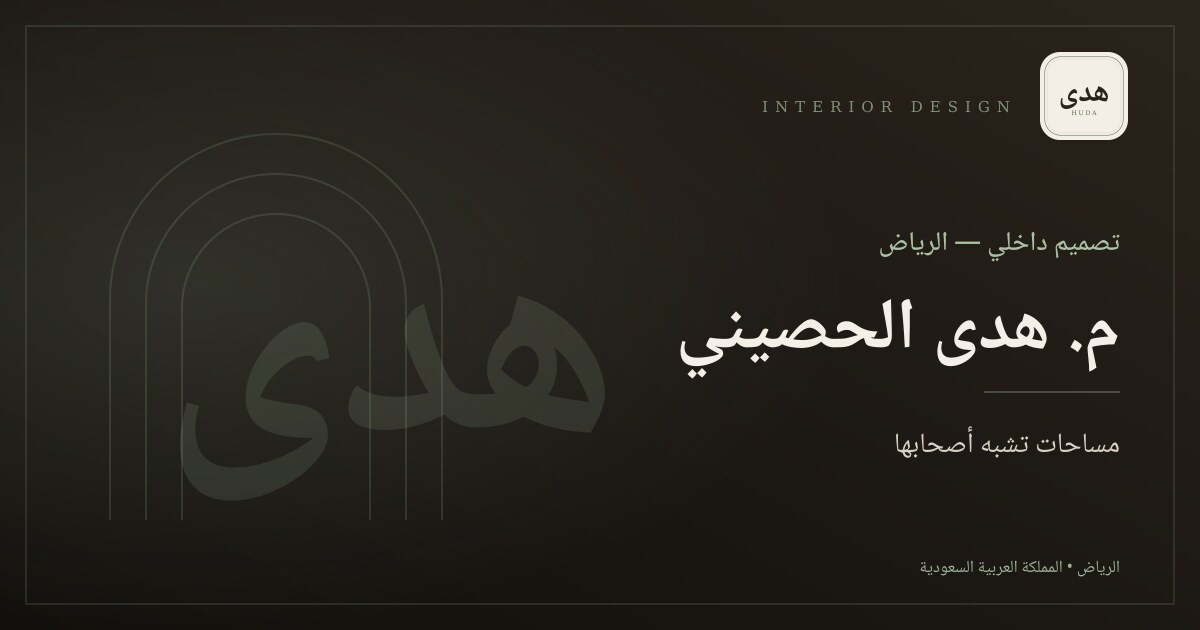
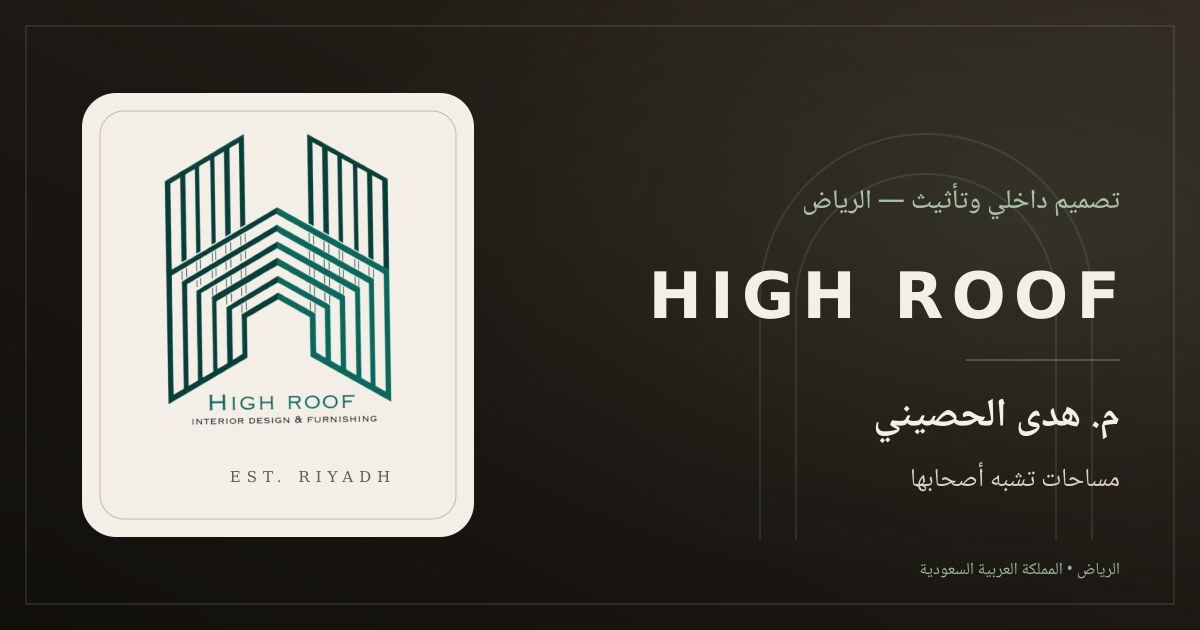
first commit

diff --git a/hub/sites/huda/site.ts b/hub/sites/huda/site.ts
@@ -5,13 +5,13 @@ import type { Contact, Project, ServiceItem, SiteData } from "@/lib/site";
 // المحتوى والوسائط من أصول فولدر "huda" وحساب @hudaaa-1.
 
 const brand = {
-  name: "هدى الحصيني",
+  name: "High Roof — هدى الحصيني",
   logo: "/sites/huda/brand/logo.webp",
   logoWidth: 60,
   logoHeight: 60,
-  title: "م. هدى الحصيني | تصميم داخلي — الرياض",
+  title: "High Roof | م. هدى الحصيني — تصميم داخلي وتأثيث بالرياض",
   description:
-    "م. هدى الحصيني، مصممة داخلية في الرياض. تصميم داخلي وتأثيث وديكور بلمسات هادئة وتفاصيل مختارة بعناية، لمساحات تشبه أصحابها.",
+    "High Roof، استوديو م. هدى الحصيني للتصميم الداخلي والتأثيث في الرياض. مساحات هادئة بتفاصيل مختارة وخامات طبيعية، تشبه أصحابها.",
 };
 
 const theme = {
@@ -53,9 +53,9 @@ const projects: Project[] = [
 ];
 
 const about = {
-  eyebrow: "مصممة داخلية — الرياض",
+  eyebrow: "High Roof — الرياض",
   title: "مساحات تشبه أصحابها",
-  text: "م. هدى الحصيني، مصممة داخلية في الرياض. أؤمن أن التصميم الجيد يبدأ من الاستماع: لطريقة عيشك، للضوء الذي تحبه، وللتفاصيل التي تمنحك الراحة. من الفكرة والتوزيع إلى اختيار الأثاث والخامات، أرافقك خطوة بخطوة حتى تصبح المساحة امتداداً لذوقك.",
+  text: "م. هدى الحصيني، مؤسسة High Roof للتصميم الداخلي في الرياض. أؤمن أن التصميم الجيد يبدأ من الاستماع: لطريقة عيشك، للضوء الذي تحبه، وللتفاصيل التي تمنحك الراحة. من الفكرة والتوزيع إلى اختيار الأثاث والخامات، أرافقك خطوة بخطوة حتى تصبح المساحة امتداداً لذوقك.",
 };
 
 const services = {
@@ -86,7 +86,7 @@ const services = {
 
 const identity = {
   eyebrow: "فلسفتنا في التصميم",
-  outline: "HUDA",
+  outline: "HIGH ROOF",
   title: "هدوء، دفء، وتفاصيل مختارة",
   text: "نبدأ من الإضاءة الطبيعية والألوان الترابية، ثم نضيف الخشب والرخام واللمسات الخضراء. النتيجة مساحة هادئة لا تتصدّر المشهد، لكنها تُشعِر من يدخلها بالراحة.",
   points: [
@@ -96,7 +96,7 @@ const identity = {
     "الرياض، مع خدمة الطلبات عن بُعد.",
   ],
   image: "/sites/huda/video/living.mp4",
-  imageLabel: "HUDA ALHUSAINI",
+  imageLabel: "HIGH ROOF",
 };
 
 const testimonials = {
@@ -131,7 +131,7 @@ const contact: Contact = {
     googlePlay: "",
     appStore: "",
   },
-  copyright: `© ${new Date().getFullYear()} Huda Alhusaini Interior Design. جميع الحقوق محفوظة`,
+  copyright: `© ${new Date().getFullYear()} High Roof Interior Design & Furnishing. جميع الحقوق محفوظة`,
 };
 
 const nav = [
